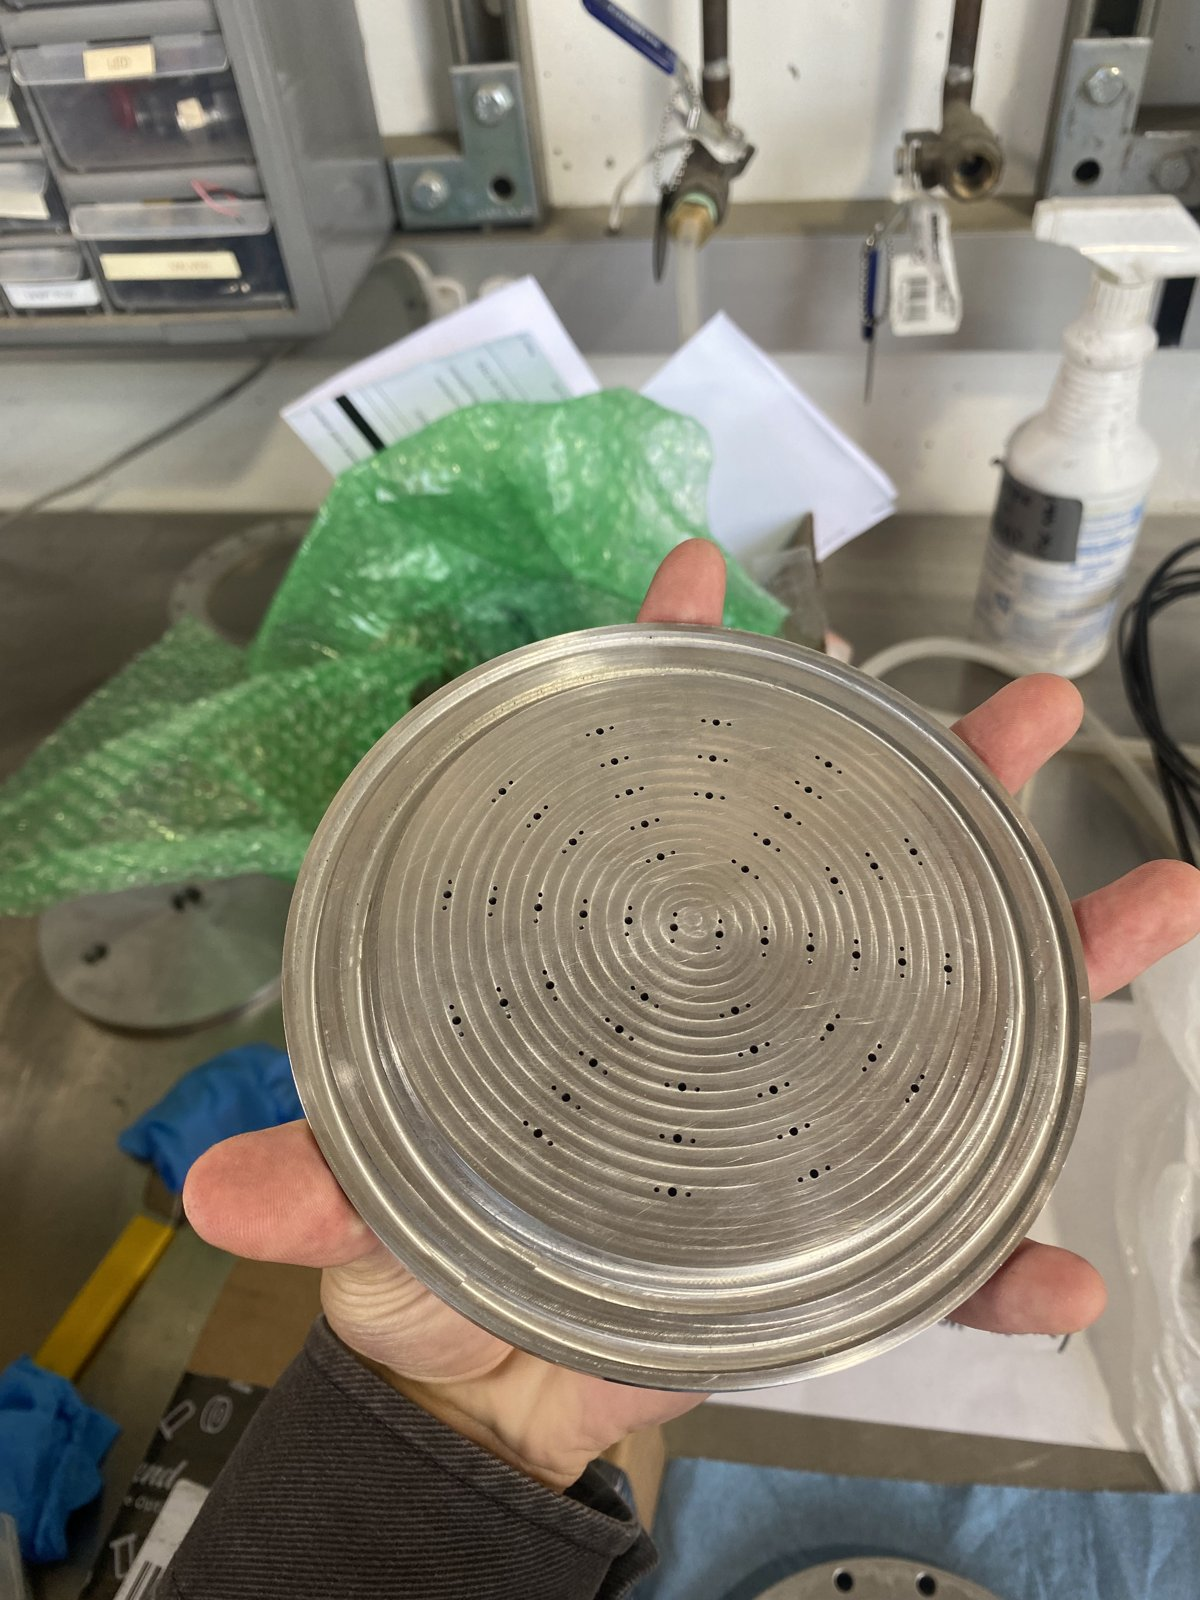
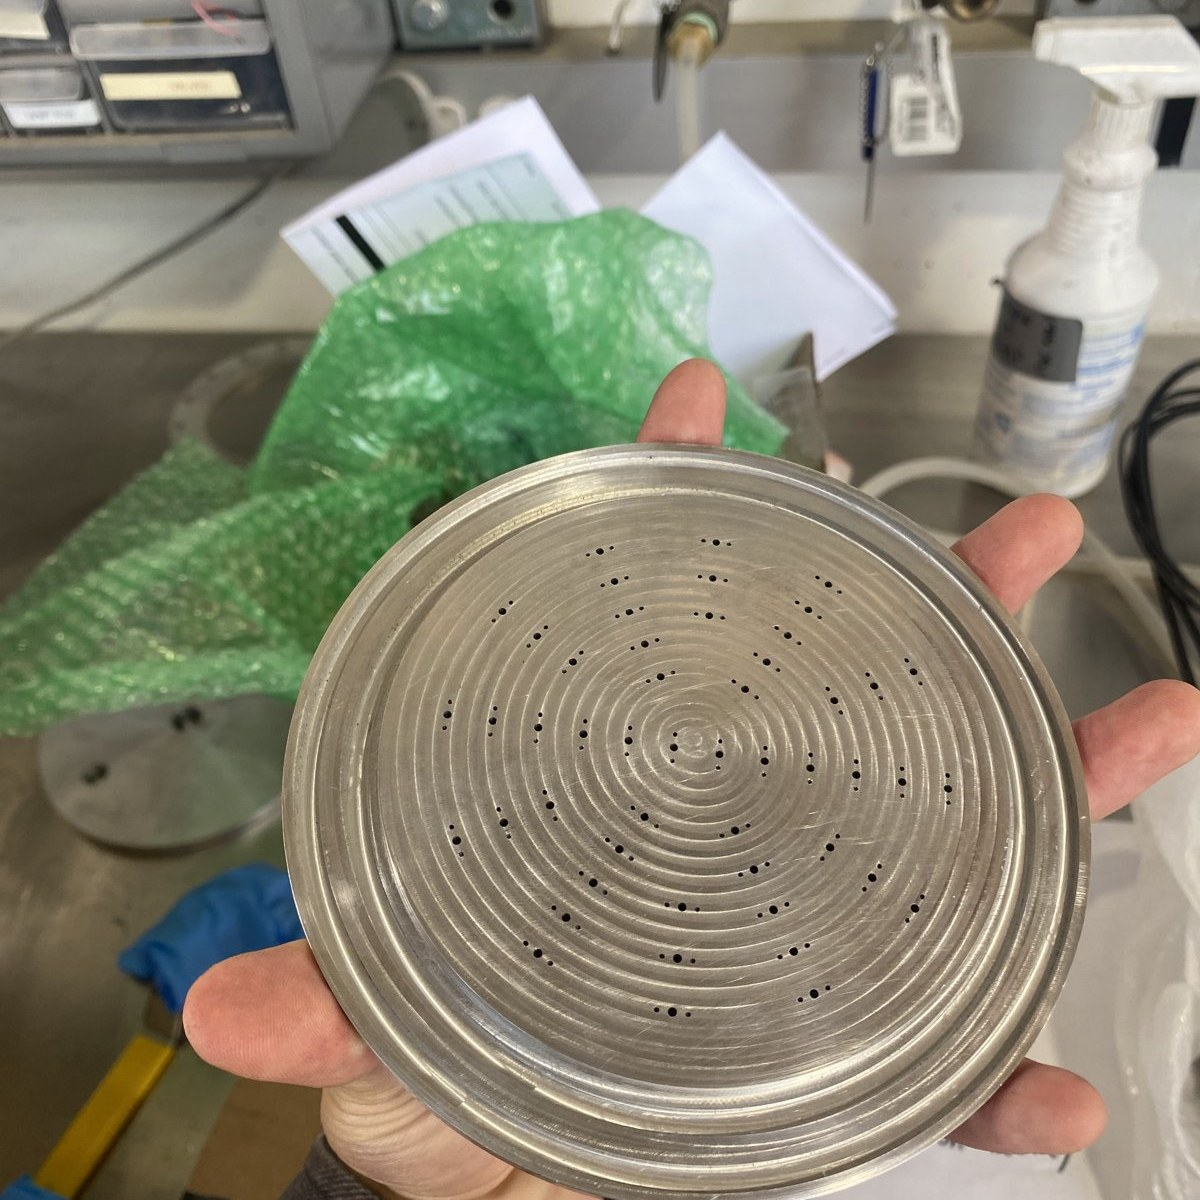
Add files via upload

diff --git a/ucirpl.html b/ucirpl.html
@@ -266,7 +266,11 @@
     <div class="row">
       <div>
         <h3>Main Valve Actuator Mounts</h3>
-        <p class="detail">Our main valve actuators are external to the rocket to save weight. On a budget of $0 I used scrap metal to create mounts to hold up the pneumatic actuators outside the rocket to turn our main valves. This design needed 4 degrees of freedom as the exact location of the valves in the lower section had not been decided at the time of my work.</p>
+        <p class="detail">Our main valve actuators are external to the rocket to save weight. I created mounts to hold the pneumatic actuators outside the rocket to turn our main valves, and addressed two major challenges:</p>
+        <ol class="detail-list">
+          <li><strong>Unknown valve locations.</strong> The exact location of the valves in the lower section had not been decided at the time of my work, so the design needed 4 degrees of freedom.</li>
+          <li><strong>Zero budget.</strong> I designed the mounts using only existing scrap metal.</li>
+        </ol>
       </div>
       <div class="media">
         <img src="main-valve-mounts.jpg" alt="Main valve mounts">
